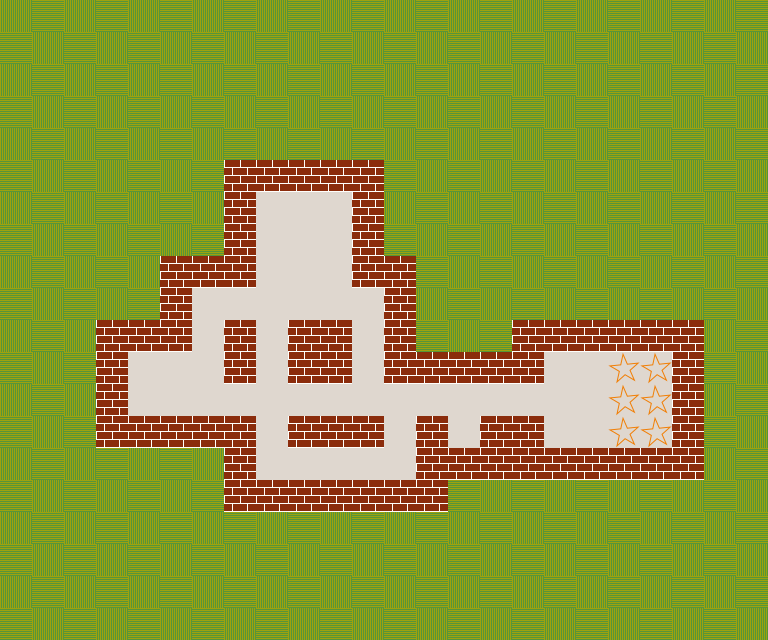
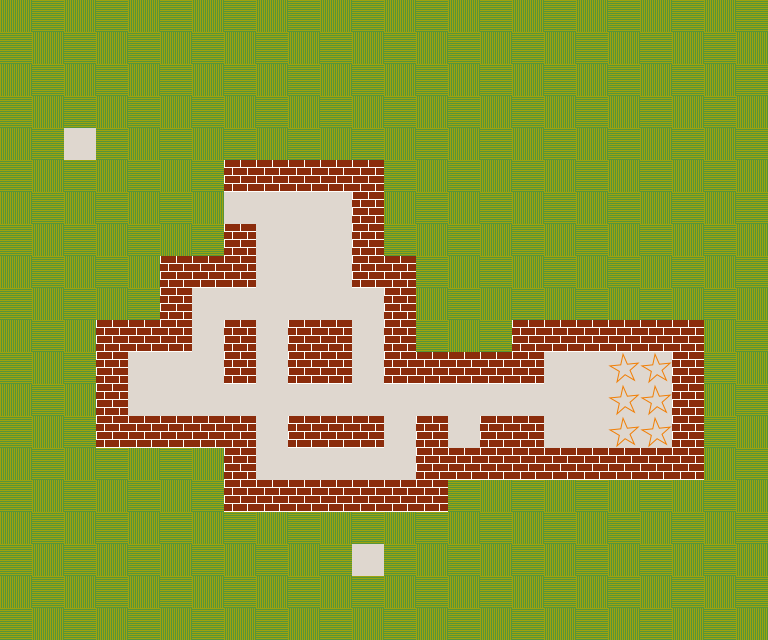
background picture made with tiles, wip : some tiles are not visible

Changed region(s): [[0.2812, 0.2812, 0.3438, 0.375], [0.4375, 0.8438, 0.5, 0.9062], [0.0625, 0.1875, 0.125, 0.25]]

diff --git a/src/tile.rs b/src/tile.rs
@@ -19,7 +19,7 @@ use gtk::prelude::FixedExt;
 use gtk::prelude::ObjectExt;
 use gtk::prelude::WidgetExt;
 use gtk::prelude::*;
-use gtk::{Snapshot, graphene, WidgetPaintable, gsk};
+use gtk::{Snapshot, WidgetPaintable, graphene, gsk};
 use rand::Rng;
 use rand::RngExt;
 use rand::prelude::SliceRandom;
@@ -174,10 +174,20 @@ pub fn fill_tiles_for_level(
                 let mut grid = grid_rc.borrow_mut();
                 let mut crate_sprites = crate_sprites_rc.borrow_mut();
                 let mut index = index_rc.get();
-                // stop when all tiles are put
+                // stop when all tiles are put and snapshot a texture for background
                 if index >= total {
-                    let result = save_fixed_to_png(&fixed, "/Users/tof/Coding/sokoban-rs/foo.png");
-                    dbg!(&result);
+                    let background_texture = background_texture(&fixed);
+                    println!(
+                        "Texture: {}x{}",
+                        background_texture.width(),
+                        background_texture.height()
+                    );
+                    save_fixed_to_png(&fixed, "./foo.png");
+                    clear_fixed(&fixed);
+                    let background_picture = gtk::Picture::for_paintable(&background_texture);
+                    background_picture
+                        .set_size_request(background_texture.width(), background_texture.height());
+                    fixed.put(&background_picture, 0.0, 0.0);
                     glib::ControlFlow::Break
                 } else {
                     let (row, col) = all_coords[index];
@@ -241,15 +251,9 @@ pub fn picture_at(fixed: &gtk::Fixed, x: f64, y: f64) -> Option<Picture> {
     None
 }
 
-
-fn save_fixed_to_png(fixed: &gtk::Fixed, filename: &str) -> Result<(), glib::BoolError> {
+fn background_texture(fixed: &gtk::Fixed) -> gdk::Texture {
     let width = fixed.width() as f32;
     let height = fixed.height() as f32;
-
-    if width <= 0.0 || height <= 0.0 {
-        eprintln!("Fixed has 0 size: {}x{}", width, height);
-        return Ok(());
-    }
 
     let snapshot = Snapshot::new();
 
@@ -271,8 +275,7 @@ fn save_fixed_to_png(fixed: &gtk::Fixed, filename: &str) -> Result<(), glib::Boo
     }
 
     let Some(node) = snapshot.to_node() else {
-        eprintln!("Snapshot produced no render node!");
-        return Ok(());
+        panic!("can't snapshot.to_node()")
     };
 
     let renderer = fixed
@@ -284,7 +287,17 @@ fn save_fixed_to_png(fixed: &gtk::Fixed, filename: &str) -> Result<(), glib::Boo
     // Pass explicit bounds so transparent areas aren't cropped out
     let bounds = graphene::Rect::new(0.0, 0.0, width, height);
     let texture: gdk::Texture = renderer.render_texture(&node, Some(&bounds));
-
+    texture
+}
+fn save_fixed_to_png(fixed: &gtk::Fixed, filename: &str) -> Result<(), glib::BoolError> {
+    let texture = background_texture(fixed);
     texture.save_to_png(filename)
 }
 
+fn clear_fixed(fixed: &gtk::Fixed) {
+    let mut child = fixed.first_child();
+    while let Some(widget) = child {
+        child = widget.next_sibling();
+        fixed.remove(&widget);
+    }
+}
